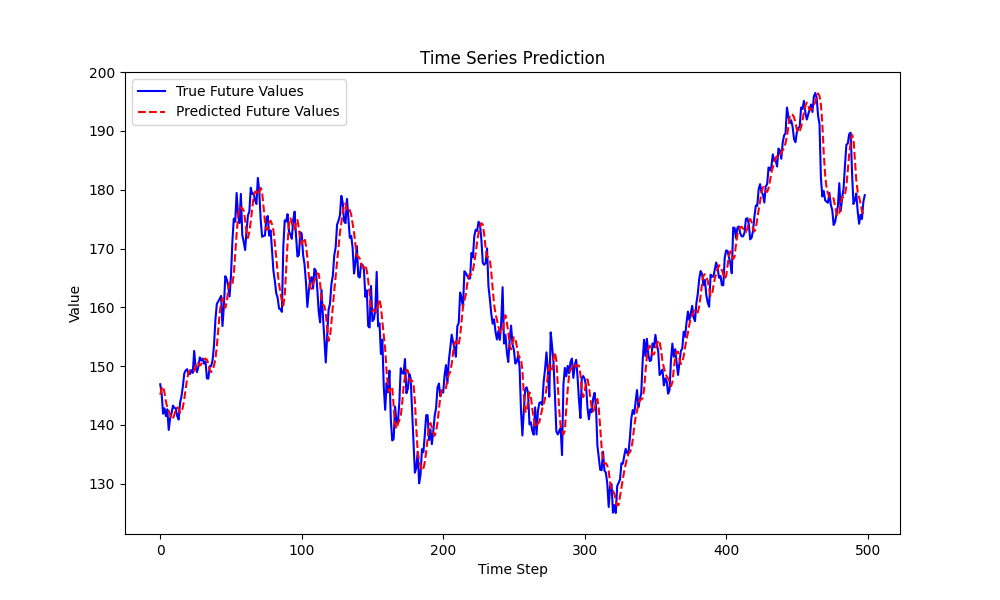
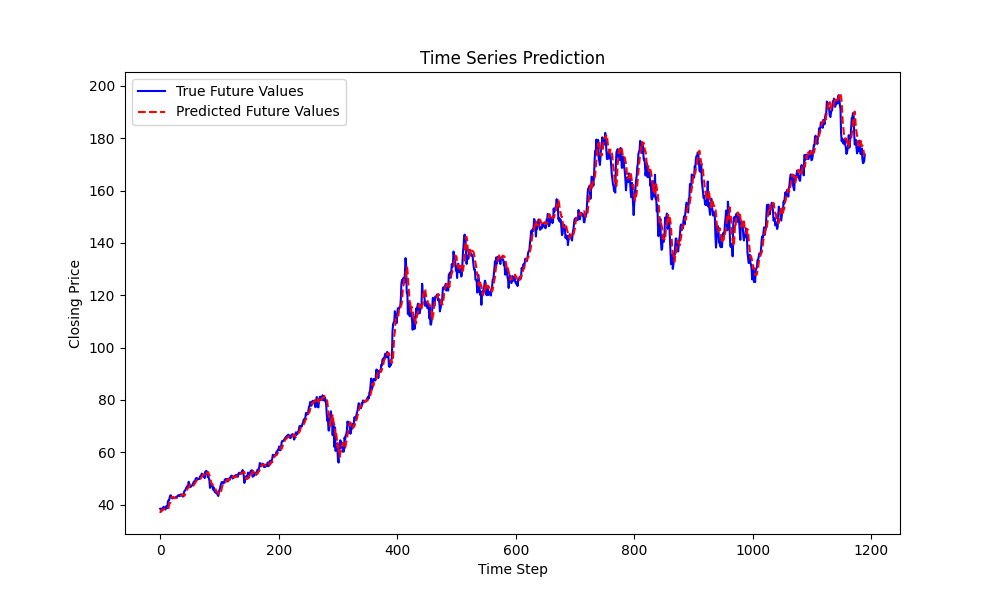
added function to fetch latest stock data

diff --git a/TimeSeries/time_series_transformer.py b/TimeSeries/time_series_transformer.py
@@ -1,26 +1,35 @@
 import pandas as pd
 import os
+from FetchData import fetch_stock_dataset
+from tensorflow import keras
+from tensorflow.keras import layers
+import matplotlib.pyplot as plt
+import numpy as np
+
+
   
-names = ['year', 'month', 'day', 'dec_year', 'sn_value' , 
-         'sn_error', 'obs_num', 'extra']
-df = pd.read_csv('data/aapl.csv', index_col=False)
-# Split the 'date' column into three new columns: 'day', 'month', 'year'
-df['Month'] = df['Date'].str.split('/').str[0]
-df['Day'] = df['Date'].str.split('/').str[1]
-df['Year'] = df['Date'].str.split('/').str[2]
-df = df.rename(columns={'Close/Last': 'Close'})
+
+#df = pd.read_csv('data/aapl.csv', index_col=False)
+df = fetch_stock_dataset("AAPL")
 
 # format the date column
 df['Date'] = pd.to_datetime(df['Date'])
+
+# Split the 'date' column into three new columns: 'day', 'month', 'year'
+df['Year'] = df['Date'].dt.year
+df['Month'] = df['Date'].dt.month
+df['Day'] = df['Date'].dt.day
+
+#df = df.rename(columns={'Close/Last': 'Close'})
+
 
 # sort by date
 df.sort_values(by='Date', inplace=True, ascending=True)
 
 
 
-
 df = df[['Year','Month','Day','Date','Volume', 'Open', 'High', 'Low', 'Close']]
-df = df.replace(r'^\$', '', regex=True)
+#df = df.replace(r'^\$', '', regex=True)
 
 
 print("Starting file:")
@@ -43,25 +52,25 @@ spots_test = df_test['Close'].tolist()
 print("Training set has {} observations.".format(len(spots_train)))
 print("Test set has {} observations.".format(len(spots_test)))
 
-import matplotlib.pyplot as plt
-plt.figure(figsize=(14, 5))
-plt.plot(df_train['Date'],df_train['Close'], label='Train')
-plt.plot(df_test['Date'],df_test['Close'], label='Test')
-plt.xlabel('Date')
-plt.ylabel('Close')
-plt.legend(loc='best')
-plt.show()
+def plot_dataset(df_train,df_test):
+    plt.figure(figsize=(14, 5))
+    plt.plot(df_train['Date'],df_train['Close'], label='Train')
+    plt.plot(df_test['Date'],df_test['Close'], label='Test')
+    plt.xlabel('Date')
+    plt.ylabel('Close')
+    plt.legend(loc='best')
+    plt.show()
+#plot_dataset(df_train,df_test)
 
-import numpy as np
 
 def to_sequences(seq_size, obs):
     x = []
     y = []
 
-    for i in range(len(obs)-SEQUENCE_SIZE):
+    for i in range(len(obs)-seq_size):
         #print(i)
-        window = obs[i:(i+SEQUENCE_SIZE)]
-        after_window = obs[i+SEQUENCE_SIZE]
+        window = obs[i:(i+seq_size)]
+        after_window = obs[i+seq_size]
         window = [[x] for x in window]
         #print("{} - {}".format(window,after_window))
         x.append(window)
@@ -77,8 +86,7 @@ x_test,y_test = to_sequences(SEQUENCE_SIZE,spots_test)
 print("Shape of training set: {}".format(x_train.shape))
 print("Shape of test set: {}".format(x_test.shape))
 
-from tensorflow import keras
-from tensorflow.keras import layers
+
 
 def transformer_encoder(inputs, head_size, num_heads, ff_dim, dropout=0):
     # Normalization and Attention
@@ -135,7 +143,7 @@ model.compile(
     loss="mean_squared_error",
     optimizer=keras.optimizers.Adam(learning_rate=1e-4)
 )
-#model.summary()
+model.summary()
 
 callbacks = [keras.callbacks.EarlyStopping(patience=10, \
     restore_best_weights=True)]
@@ -156,21 +164,20 @@ from sklearn import metrics
 pred = model.predict(x_test)
 score = np.sqrt(metrics.mean_squared_error(pred,y_test))
 print("Score (RMSE): {}".format(score))
-print(pred)
 
-plt.figure(figsize=(10,6))
+def plot_predictions(test,predicted):
+    plt.figure(figsize=(10, 6))
+    plt.plot(test, label='True Future Values', color='blue')
+    plt.plot(predicted,  label='Predicted Future Values', color='red', linestyle='dashed')
+    plt.title('Time Series Prediction')
+    plt.xlabel('Time Step')
+    plt.ylabel('Closing Price')
+    plt.legend()
+    plt.savefig("./Documentation/Prediction_Results.png")
+    plt.show()
 
-# Plotting the actual future values
-plt.plot(y_test, label='True Future Values', color='blue')
+plot_predictions(y_test,pred)
 
-# Plotting the predicted future values
-plt.plot(pred, label='Predicted Future Values', color='red', linestyle='dashed')
-
-plt.title('Time Series Prediction')
-plt.xlabel('Time Step')
-plt.ylabel('Value')
-plt.legend()
-plt.show()
 
 
 

diff --git a/Sentiment/Sentiment.py b/Sentiment/Sentiment.py
@@ -1,5 +1,7 @@
 from transformers import pipeline
 from GoogleNewsCollector import get_news
+import matplotlib.pyplot as plt
+import seaborn as sns
 
 #get data
 df_apple_news = get_news("Apple")
@@ -23,3 +25,16 @@ print(df_apple_news.head())
 
 # convert df to csv
 df_apple_news.to_csv("./Sentiment/Prediction/apple_news_sentiment.csv", index=False)
+
+# plot sentiment distribution
+
+def plot_sentiment_distribution(df, column):
+    sns.set_style("darkgrid")
+    plt.figure(figsize=(10, 6))
+    sns.histplot(df[column])
+    plt.title(column + " Distribution")
+    plt.savefig("./Sentiment/Prediction/apple_news_" + column + ".png")
+    plt.show()
+
+
+plot_sentiment_distribution(df_apple_news, "sentiment_class")

diff --git a/TimeSeries/FetchData.py b/TimeSeries/FetchData.py
@@ -1,0 +1,20 @@
+import yfinance as yf
+import pandas as pd
+from datetime import date
+
+def fetch_stock_dataset(ticker_symbol):
+    # Define the ticker symbol for the NASDAQ Composite index
+    # ticker_symbol = "AAPL"
+    # get date of today
+    today = date.today()
+
+    # Fetch the data
+    data = yf.download(ticker_symbol, start="2000-01-01", end=today)
+
+    # Data is already in a DataFrame, so you can directly use it
+    # print(data.head())
+    df_stock_dataset = data.reset_index()
+    return df_stock_dataset
+
+df = fetch_stock_dataset("AAPL")
+print(df.head())

diff --git a/Sentiment/NewsAPICollector.py b/Sentiment/NewsAPICollector.py
@@ -19,7 +19,7 @@ response = requests.get(url, params={
 })
 
 data = response.json()
-
+"""
 for article in data.get("articles", []):
     print("Title:", article.get("title"))
     print("URL:", article.get("url"))
@@ -28,3 +28,9 @@ for article in data.get("articles", []):
     print("Description:", article.get("description"))
     print("Content:", article.get("content"))
     print("-----\n")
+"""
+
+# data to df
+import pandas as pd
+df = pd.DataFrame(data['articles'])
+print(df.head())
